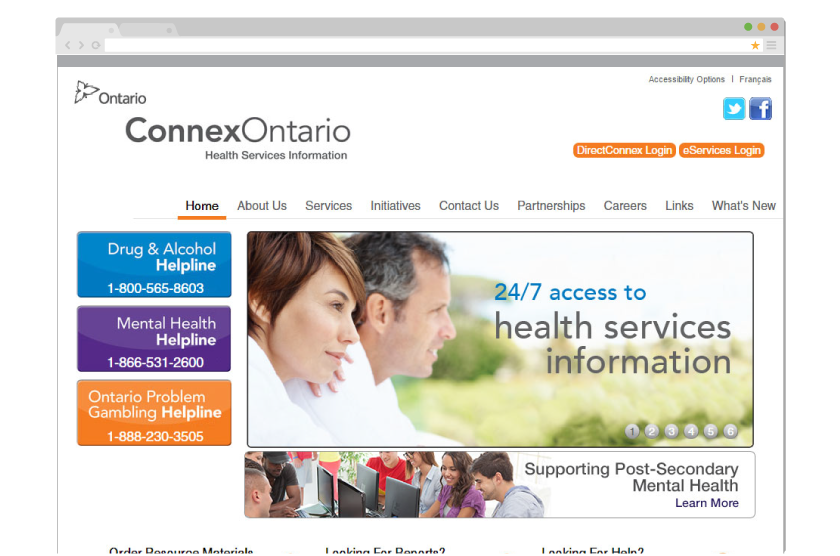
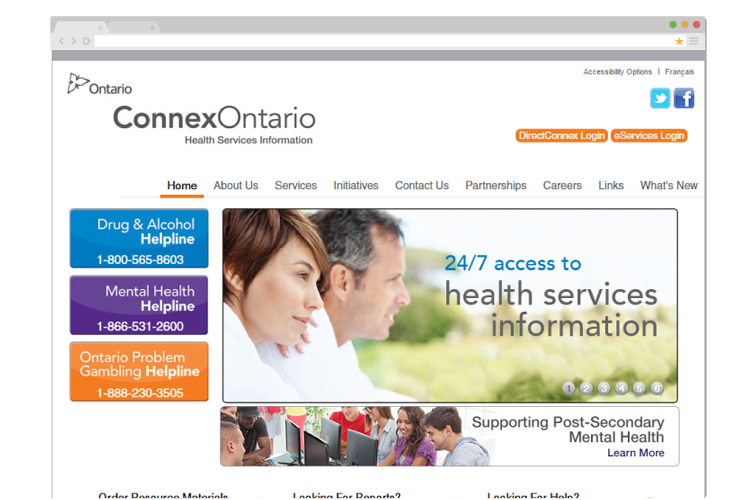
Optimized all images down from 1.82MB to 532KB

diff --git a/brand.html b/brand.html
@@ -13,7 +13,7 @@
 	<header>
 		<nav>
 			<a href="index.html">
-				<img class="logo" src="img/ies-logo-color.png" width="404" height="109"/>
+				<img class="logo" src="img/ies-logo-color-min.png" width="404" height="109"/>
 			</a>
 		</nav>
 	</header>
@@ -26,55 +26,55 @@
 		<div class="logos">
 			<figure>
 				<figcaption><div>PRIMARY LOGOTYPE - COLOUR</div>
-				<img src="img/IES-Wordmark-Colour-Web.png"/>
+				<img src="img/IES-Wordmark-Colour-Web-min.png"/>
 				<a class="download-btn" href="brand/IES-Wordmark-Colour.eps" target="_blank">EPS</a>
 				<a class="download-btn" href="brand/IES-Wordmark-Colour.png" target="_blank">PNG</a></figcaption>
 			</figure>
 			<figure>
 				<figcaption><div>ICON - COLOUR</div>
-				<img src="img/IES-Icon-Colour-Web.png"/>
+				<img src="img/IES-Icon-Colour-Web-min.png"/>
 				<a class="download-btn" href="brand/IES-Icon-Colour.eps" target="_blank">EPS</a>
 				<a class="download-btn" href="brand/IES-Icon-Colour.png" target="_blank">PNG</a></figcaption>
 			</figure>
 			<figure>
 				<figcaption><div>VERTICAL - COLOUR</div>
-				<img src="img/IES-Vertical-Colour-Web.png"/>
+				<img src="img/IES-Vertical-Colour-Web-min.png"/>
 				<a class="download-btn" href="brand/IES-Vertical-Colour.eps" target="_blank">EPS</a>
 				<a class="download-btn" href="brand/IES-Vertical-Colour.png" target="_blank">PNG</a></figcaption>
 			</figure>
 			<figure >
 				<figcaption><div>PRIMARY LOGOTYPE - WHITE</div>
-				<img class="logo-white" src="img/IES-Wordmark-White-Web.png"/>
+				<img class="logo-white" src="img/IES-Wordmark-White-Web-min.png"/>
 				<a class="download-btn" href="brand/IES-Wordmark-White.eps" target="_blank">EPS</a>
 				<a class="download-btn" href="brand/IES-Wordmark-White.png" target="_blank">PNG</a></figcaption>
 			</figure>
 			<figure >
 				<figcaption><div>ICON - WHITE</div>
-				<img class="logo-white" src="img/IES-Icon-White-Web.png"/>
+				<img class="logo-white" src="img/IES-Icon-White-Web-min.png"/>
 				<a class="download-btn" href="brand/IES-Icon-White.eps" target="_blank">EPS</a>
 				<a class="download-btn" href="brand/IES-Icon-White.png" target="_blank">PNG</a></figcaption>
 			</figure>
 			<figure>
 				<figcaption><div>VERTICAL - WHITE</div>
-				<img class="logo-white" src="img/IES-Vertical-White-Web.png"/>
+				<img class="logo-white" src="img/IES-Vertical-White-Web-min.png"/>
 				<a class="download-btn" href="brand/IES-Vertical-White.eps" target="_blank">EPS</a>
 				<a class="download-btn" href="brand/IES-Vertical-White.png" target="_blank">PNG</a></figcaption>
 			</figure>
 			<figure>
 				<figcaption><div>PRIMARY LOGOTYPE - BLACK</div>
-				<img src="img/IES-Wordmark-Black-Web.png"/>
+				<img src="img/IES-Wordmark-Black-Web-min.png"/>
 				<a class="download-btn" href="brand/IES-Wordmark-Black.eps" target="_blank">EPS</a>
 				<a class="download-btn" href="brand/IES-Wordmark-Black.png" target="_blank">PNG</a></figcaption>
 			</figure>
 			<figure>
 				<figcaption><div>ICON - BLACK</div>
-				<img src="img/IES-Icon-Black-Web.png"/>
+				<img src="img/IES-Icon-Black-Web-min.png"/>
 				<a class="download-btn" href="brand/IES-Icon-Black.eps" target="_blank">EPS</a>
 				<a class="download-btn" href="brand/IES-Icon-Black.png" target="_blank">PNG</a></figcaption>
 			</figure>
 			<figure>
 				<figcaption><div>VERTICAL - BLACK</div>
-				<img src="img/IES-Vertical-Black-Web.png"/>
+				<img src="img/IES-Vertical-Black-Web-min.png"/>
 				<a class="download-btn" href="brand/IES-Vertical-Black.eps" target="_blank">EPS</a>
 				<a class="download-btn" href="brand/IES-Vertical-Black.png" target="_blank">PNG</a></figcaption>
 			</figure>
@@ -146,12 +146,12 @@
 		<div class="logos">
 			<figure>
 				<figcaption><div>BUSINESS CARD</div>
-				<img src="img/IES-Business-Card-Web.png"/>
+				<img src="img/IES-Business-Card-Web-min.png"/>
 				<a class="download-btn" href="brand/IES-Business-Card.pdf" target="_blank">PDF</a></figcaption>
 			</figure>
 			<figure>
 				<figcaption><div>GRAPH PAPER</div>
-				<img src="img/IES-Graph-Paper-Web.png"/>
+				<img src="img/IES-Graph-Paper-Web-min.png"/>
 				<a class="download-btn" href="brand/IES-Graph-Paper.pdf" target="_blank">PDF</a></figcaption>
 			</figure>
 		</div>

diff --git a/index.html b/index.html
@@ -17,7 +17,7 @@
 		<header class="home">
 			<nav>
 				<a href="index.html">
-					<img class="logo" src="img/ies-logo-color.png" width="404" height="109"/>
+					<img class="logo" src="img/ies-logo-color-min.png" width="404" height="109"/>
 				</a>
 			</nav>
 		</header>
@@ -77,46 +77,46 @@
 			<p>We take pride in a highly referenceable customer list and a report card that speaks to hundreds of enterprise projects that were completed on-time and on-mark. We provide specialized incentives for non-profit organizations and have negotiated highly effective partnerships with entrepreneurs to help them bring their ideas to market. We retain all work in-house and provide fully transparent access to our clients so that at any moment they can check on project status from their environment.</p>
 			<div class="client-types">
 				<figure>
-					<img src="img/MediaSonar.png" width="340" height="156"/>
+					<img src="img/MediaSonar-min.png" width="340" height="156"/>
 				</figure>
 				<figure>
-					<img src="img/Daimler.png" width="340" height="156"/>
+					<img src="img/Daimler-min.png" width="340" height="156"/>
 				</figure>
 				<figure>
-					<img src="img/Ford.png" width="340" height="156"/>
+					<img src="img/Ford-min.png" width="340" height="156"/>
 				</figure>
 				<figure>
-					<img src="img/Diply.png" width="340" height="156"/>
+					<img src="img/Diply-min.png" width="340" height="156"/>
 				</figure>
 				<figure>
-					<img src="img/G2PO.png" width="340" height="156"/>
+					<img src="img/G2PO-min.png" width="340" height="156"/>
 				</figure>
 				<figure>
-					<img src="img/Magna.png" width="340" height="156"/>
+					<img src="img/Magna-min.png" width="340" height="156"/>
 				</figure>
 				<figure>
-					<img src="img/Connex.png" width="340" height="156"/>
+					<img src="img/Connex-min.png" width="340" height="156"/>
 				</figure>
 				<figure>
-					<img src="img/DTE.png" width="340" height="156"/>
+					<img src="img/DTE-min.png" width="340" height="156"/>
 				</figure>
 				<figure>
-					<img src="img/HealthCanada.png" width="340" height="156"/>
+					<img src="img/HealthCanada-min.png" width="340" height="156"/>
 				</figure>
 				<figure>
-					<img src="img/LHSC.png" width="340" height="156"/>
+					<img src="img/LHSC-min.png" width="340" height="156"/>
 				</figure>
 				<figure>
-					<img src="img/TVDSB.png" width="340" height="156"/>
+					<img src="img/TVDSB-min.png" width="340" height="156"/>
 				</figure>
 				<figure>
-					<img src="img/LTS.png" width="340" height="156"/>
+					<img src="img/LTS-min.png" width="340" height="156"/>
 				</figure>
 				<figure>
-					<img src="img/Lerners.png" width="340" height="156"/>
+					<img src="img/Lerners-min.png" width="340" height="156"/>
 				</figure>
 				<figure>
-					<img src="img/ABC.png" width="340" height="156"/>
+					<img src="img/ABC-min.png" width="340" height="156"/>
 				</figure>
 			</div>
 		</div>

diff --git a/ies.css b/ies.css
@@ -191,20 +191,20 @@ figure{
 
 }
 .work-img-1{
-	background-image: url("img/header-mediasonar.png");
+	background-image: url("img/header-mediasonar-min.png");
 } 
 .work-img-2{
-	background-image: url("img/header-daimler.png");
+	background-image: url("img/header-daimler-min.png");
 } 
 .work-img-3{
-	background-image: url("img/header-wisdom.png");
+	background-image: url("img/header-wisdom-min.png");
 	background-position: bottom left;
 } 
 .work-img-4{
-	background-image: url("img/header-diply.png");
+	background-image: url("img/header-diply-min.png");
 } 
 .work-img-5{
-	background-image: url("img/header-connex.png");
+	background-image: url("img/header-connex-min.png");
 } 
 .work h2{
 	text-transform: uppercase;
